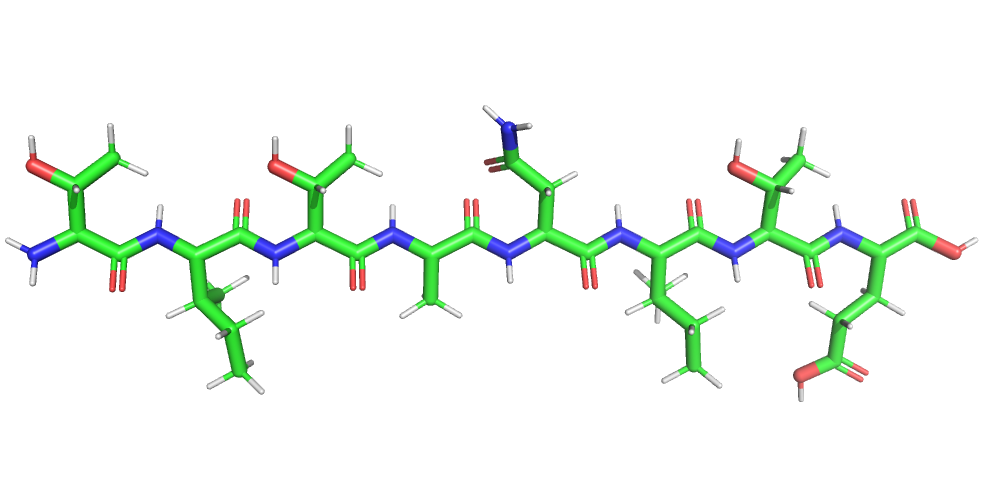
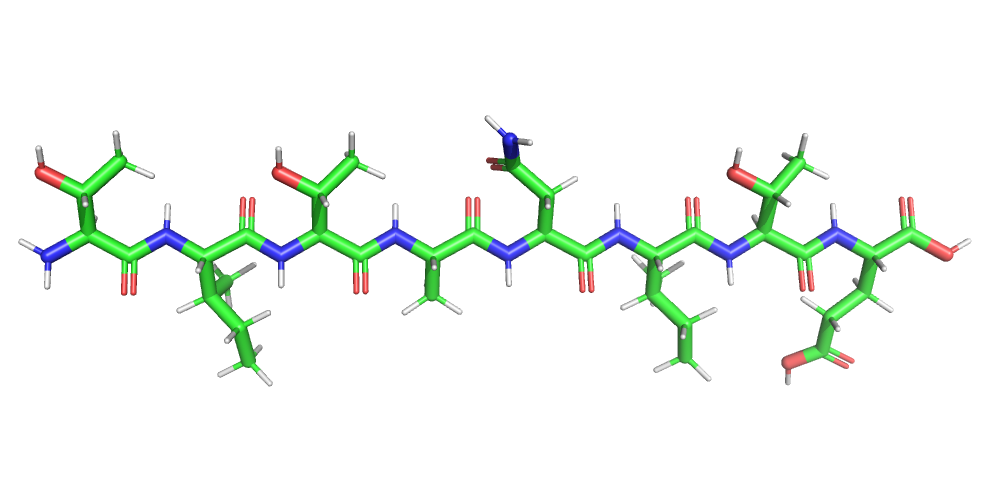
Small fix

Changed region(s): [[0.0, 0.21, 0.992, 0.81]]

diff --git a/doc/examples/scripts/structure/peptide_assembly.py b/doc/examples/scripts/structure/peptide_assembly.py
@@ -13,7 +13,7 @@ geometry are obtained from the reference PDB component dataset via
 :func:`biotite.structure.info.residue()` and the atoms are appended to
 the backbone in the right orientation.
 
-For simplicity reasons, the scripts uses always a angle angle of
+For simplicity reasons, the scripts always uses an angle of
 :math:`120^\circ` for all backbone bond angles.
 """
 
@@ -137,6 +137,11 @@ def assemble_peptide(sequence):
             np.where(residue.atom_name == "CB")[0][0],
             struc.BondType.SINGLE
         )
+        residue.bonds.add_bond(
+            np.where(residue.atom_name == "CA")[0][0],
+            np.where(residue.atom_name == "HA")[0][0],
+            struc.BondType.SINGLE
+        )
         residue.chain_id[:] = "A"
         residue.res_id[:] = res_id
         residue.res_name[:] = res_name
@@ -210,10 +215,10 @@ def assemble_peptide(sequence):
         (peptide.res_id == last_id) & (peptide.atom_name == "O")
     )[0][0]
     coord_oxt = calculate_atom_coord_by_z_rotation(
-        peptide.coord[index_c], peptide.coord[index_o], -120, C_O_LENGTH
+        peptide.coord[index_c], peptide.coord[index_o], connect_angle, C_O_LENGTH
     )
     coord_hxt = calculate_atom_coord_by_z_rotation(
-        coord_oxt, peptide.coord[index_c], -120, O_H_LENGTH
+        coord_oxt, peptide.coord[index_c], connect_angle, O_H_LENGTH
     )
     atom_oxt = struc.Atom(
         coord_oxt,
